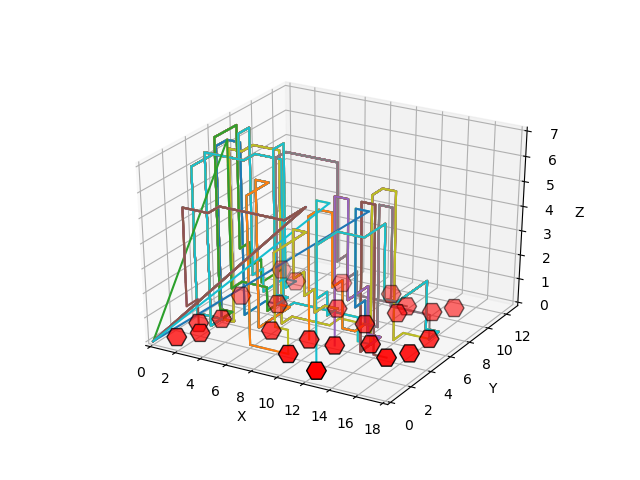
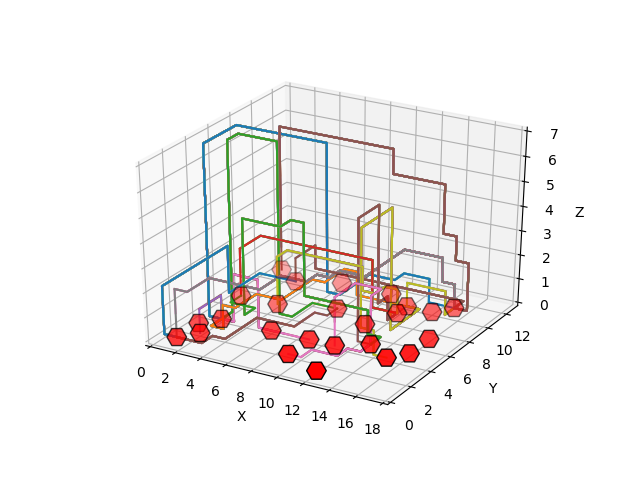
loose_cables

Changed region(s): [[0.2188, 0.25, 0.75, 0.75], [0.4062, 0.7188, 0.4375, 0.75]]

diff --git a/code/algorithms/astar.py b/code/algorithms/astar.py
@@ -29,14 +29,6 @@ def layer_netlist(netlist):
 	return layer_list
 
 
-def pythagoras(current, end):
-	""" Determine the distance as the bird flies between two coordinates. """
-
-	distance  = sqrt((end[0] - current[0]) ** 2 + (end[1] - current[1]) ** 2 + (end[2] - current[2]) ** 2)
-
-	return distance
-
-
 def manhattan_distance(current, end):
 	""" Determine the manhattan distance between two points. """
 
@@ -56,18 +48,18 @@ def distance_to_gate(gates, current, start, end, occurance_gate):
 	return heuristic
 
 
-def loose_cables(parent, current, end):
+def loose_cables(parent, current, end, gates, start, occurance_gate):
 	""" Make looser cables cheaper, to generate suboptimal solutions that can be optimised itteratively. """
 
 	# how happy does going in positive z-direction make the heuristic
 	if current[2] > parent[2]:
 		looseness = 10 - current[2]
-	# elif current[2] > 0:
-	# 	looseness = 2
+	elif current[2] > 0:
+		looseness = 2
 	else:
 		looseness = 1
 
-	heuristic = manhattan_distance(current, end) / looseness - (2 * current[2] + looseness)
+	heuristic = 2 * (distance_to_gate(gates, current, start, end, occurance_gate) / looseness)
 
 	return heuristic
 
@@ -118,10 +110,9 @@ def astar(gates, grid, start, end, occurance_gate):
 			
 			""" choose which function for the heuristic to use by commenting out the others """
 
-			# h = pythagoras(neighbour, end)
 			# h = manhattan_distance(neighbour, end) 
 			h = distance_to_gate(gates, neighbour, start, end, occurance_gate)
-			# h = loose_cables(current_path[-1], neighbour, end)
+			# h = loose_cables(current_path[-1], neighbour, end, gates, start, occurance_gate)
 
 			new_path = current_path + [neighbour]
 
@@ -135,7 +126,7 @@ def astar(gates, grid, start, end, occurance_gate):
 			heappush(Q, (f, new_path))
 
 
-def execute_astar(netlist, chip):
+def execute_astar(netlist, chip, loopdieloop=True):
 	""" Execute astar function for all nets. """
 
 	grid = chip.grid
@@ -147,13 +138,16 @@ def execute_astar(netlist, chip):
 	for gate in gates:
 		occurance_gate[gate] = 0
 
-	# does user want loose_layering
-	layering_input = input("Do you want equal distribution of wires over the layers? (y/n)\n").lower()
-	if layering_input == 'y' or layering_input == 'yes':
-		loose_layering = True
-	else:
+	if loopdieloop:
+		# does user want loose_layering
+		layering_input = input("Do you want equal distribution of wires over the layers? (y/n)\n").lower()
+		if layering_input == 'y' or layering_input == 'yes':
+			loose_layering = True
+		else:
+			loose_layering = False
+	else:	
 		loose_layering = False
-			
+
 	# loose_layering forces the wires through a predetermined layer
 	if loose_layering == True:
 		netlist = layer_netlist(netlist)

diff --git a/code/algorithms/hillclimb.py b/code/algorithms/hillclimb.py
@@ -29,7 +29,7 @@ def find_point_stuck(output_dict, unsolved_wire):
 
 	return stuck_point, stuck_wires
 
-def change_wires(stuck_points, stuck_wires, chip, output_dict, loose_layering):
+def change_wires(stuck_points, stuck_wires, chip, output_dict):
 	""" Lays the remaining points of the wires that got stuck with the use of A*. """
 
 	new_output_dict = {}
@@ -39,7 +39,7 @@ def change_wires(stuck_points, stuck_wires, chip, output_dict, loose_layering):
 		new_netlist = [(point, net[1])]
 
 		# execute astar
-		new_wires = execute_astar(new_netlist, chip, loose_layering)
+		new_wires = execute_astar(new_netlist, chip, False)
 
 		# merge wires if new found
 		if len(next(iter(new_wires.values()))) > 1:

diff --git a/main.py b/main.py
@@ -100,7 +100,8 @@ if __name__ == '__main__':
 		y_dim = chiploop.get_y_dimension(chiploop.gates)
 
 		# # create visual representation of the solved chip
-		visualise = matplot.visualise(chiploop.gates, wires.wire, x_dim, y_dim)
+		# visualise = matplot.visualise(chiploop.gates, wires.wire, x_dim, y_dim)
+		visualise = matplot.visualise(chiploop.gates, wires.hill.run_hill, x_dim, y_dim)
 		break
 
 	print(f"The total_cost is {total_cost}.\n")
